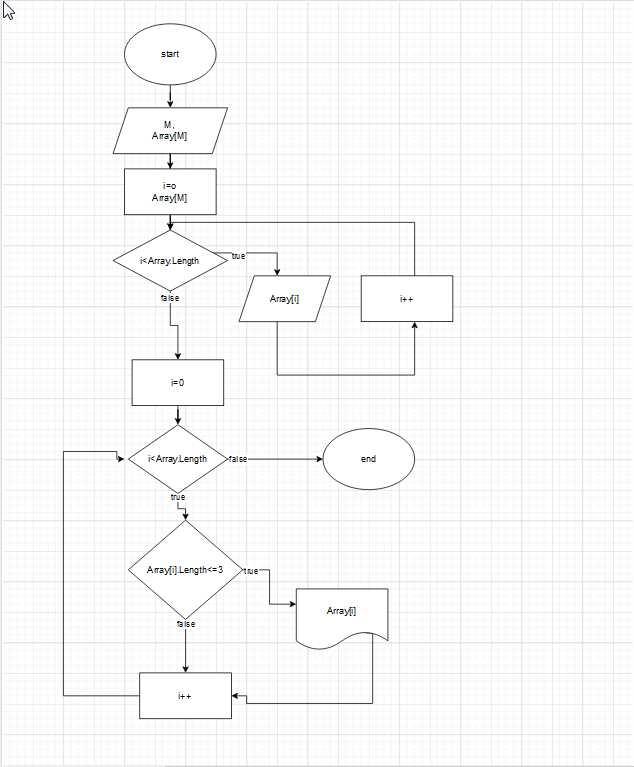
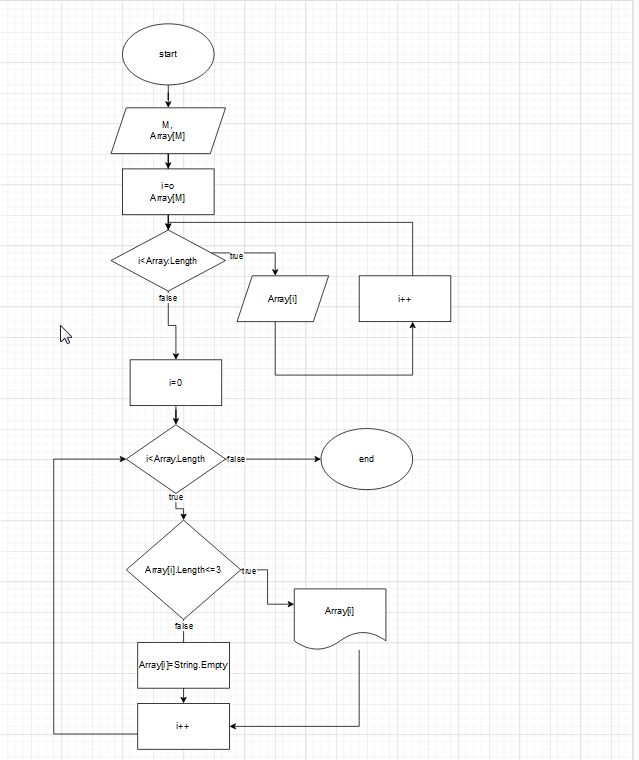
Изменена диаграмма. Добавлен README

diff --git a/1st Quarter/README.md b/1st Quarter/README.md
@@ -1,0 +1,12 @@
+**Задача:**
+ Написать программу, которая из имеющегося массива строк формирует новый массив из строк, длина которых меньше, либо равна 3 символам. Первоначальный массив можно ввести с клавиатуры, либо задать на старте выполнения алгоритма. При решении не рекомендуется пользоваться коллекциями, лучше обойтись исключительно массивами.
+
+*Примеры: [“Hello”, “2”, “world”, “:-)”] → [“2”, “:-)”] [“1234”, “1567”, “-2”, “computer science”] → [“-2”]  [“Russia”, “Denmark”, “Kazan”] → []*
+
+# Алгоритм действий:
+
+1. Ввести значение  длины массива  М.
+2. С клавиатуры поэлементно ввести значения элементов массива Array.
+3. Провести проверку каждого элемента массива Array: те , длина которых меньше либо равна 3 символам вывести на экран
+4. Элементы ,длина которых больше 3, заменить пустыми значениями.
+
